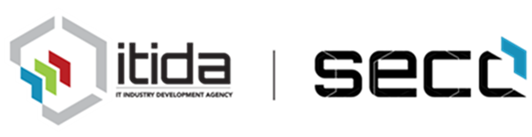
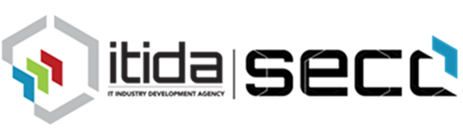
[CAI-24] Updating Sponsors (#14566)
* [CAI-24] Update main

* [CAI-24] Update welcome

* [CAI-24] Update welcome page

* [CAI-24] Updating logo

* [CAI-24] Adding sponsors

* [CAI-24] Create ejada.yml

* [CAI-24] Create ericsson.yml

* [CAI-24] Create fixedsolutions.yml

* [CAI-24] Updating fixed solutions

* [CAI-24] Adding Sponsors and reverting to current organizers

* [CAI-24] Update orange.yml

* [CAI-24] Update vois.yml

* Add files via upload

* [CAI-24] Fixing Atos logo

* [CAI-24] Fixing location

diff --git a/content/events/2024-cairo/welcome.md b/content/events/2024-cairo/welcome.md
@@ -8,7 +8,8 @@ Description = "DevOpsDays Cairo 2024"
 
 <p>&nbsp;</p>
 <p><strong>Date &amp; Time: </strong>Wednesday, Sep 25, 2024</p>
-<p>Follow us, adjust your calendar notifications and stay tuned!</p>
+<p>Follow us, adjust your calendar notifications and <a href="https://secc.org.eg/English/MediaCenter/Events/Pages/DevOpsDays-Cairo-2024.aspx">stay tuned on conference Website!</a>
+</p>
 
 <div style="text-align:center;">
   {{< event_logo >}}
